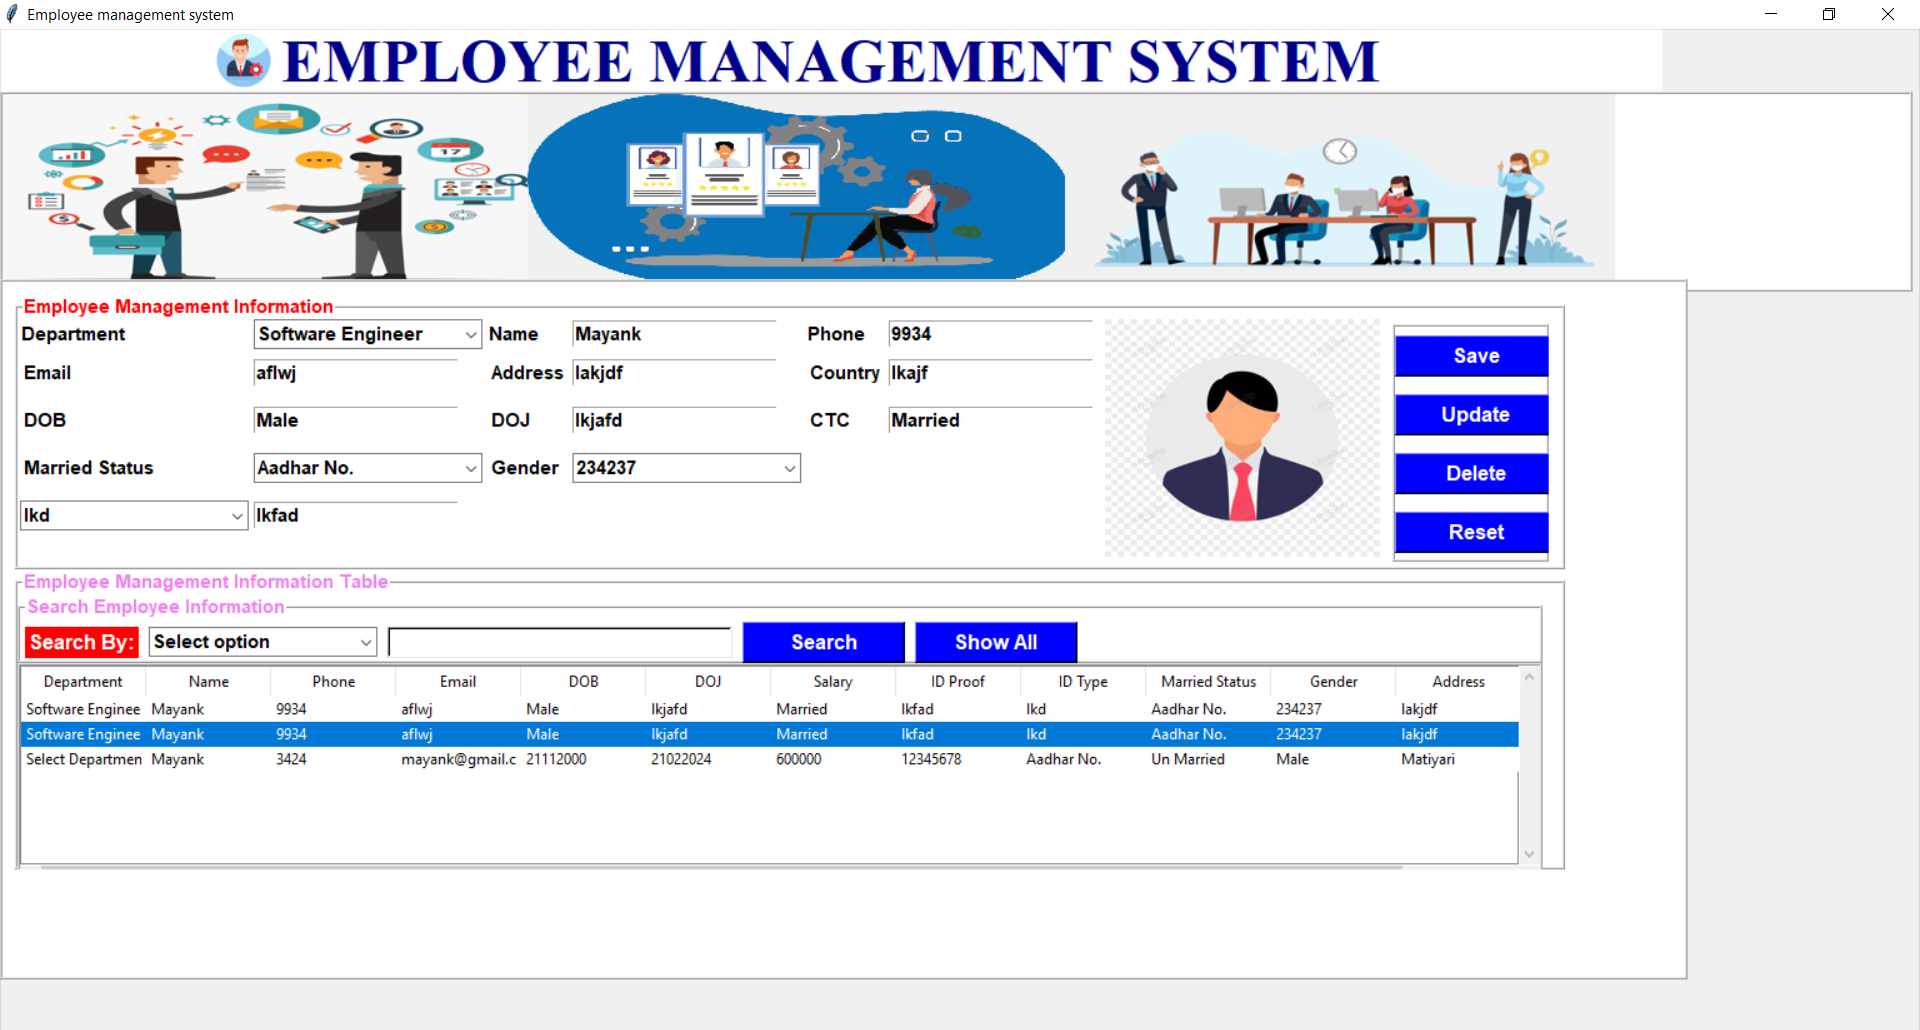
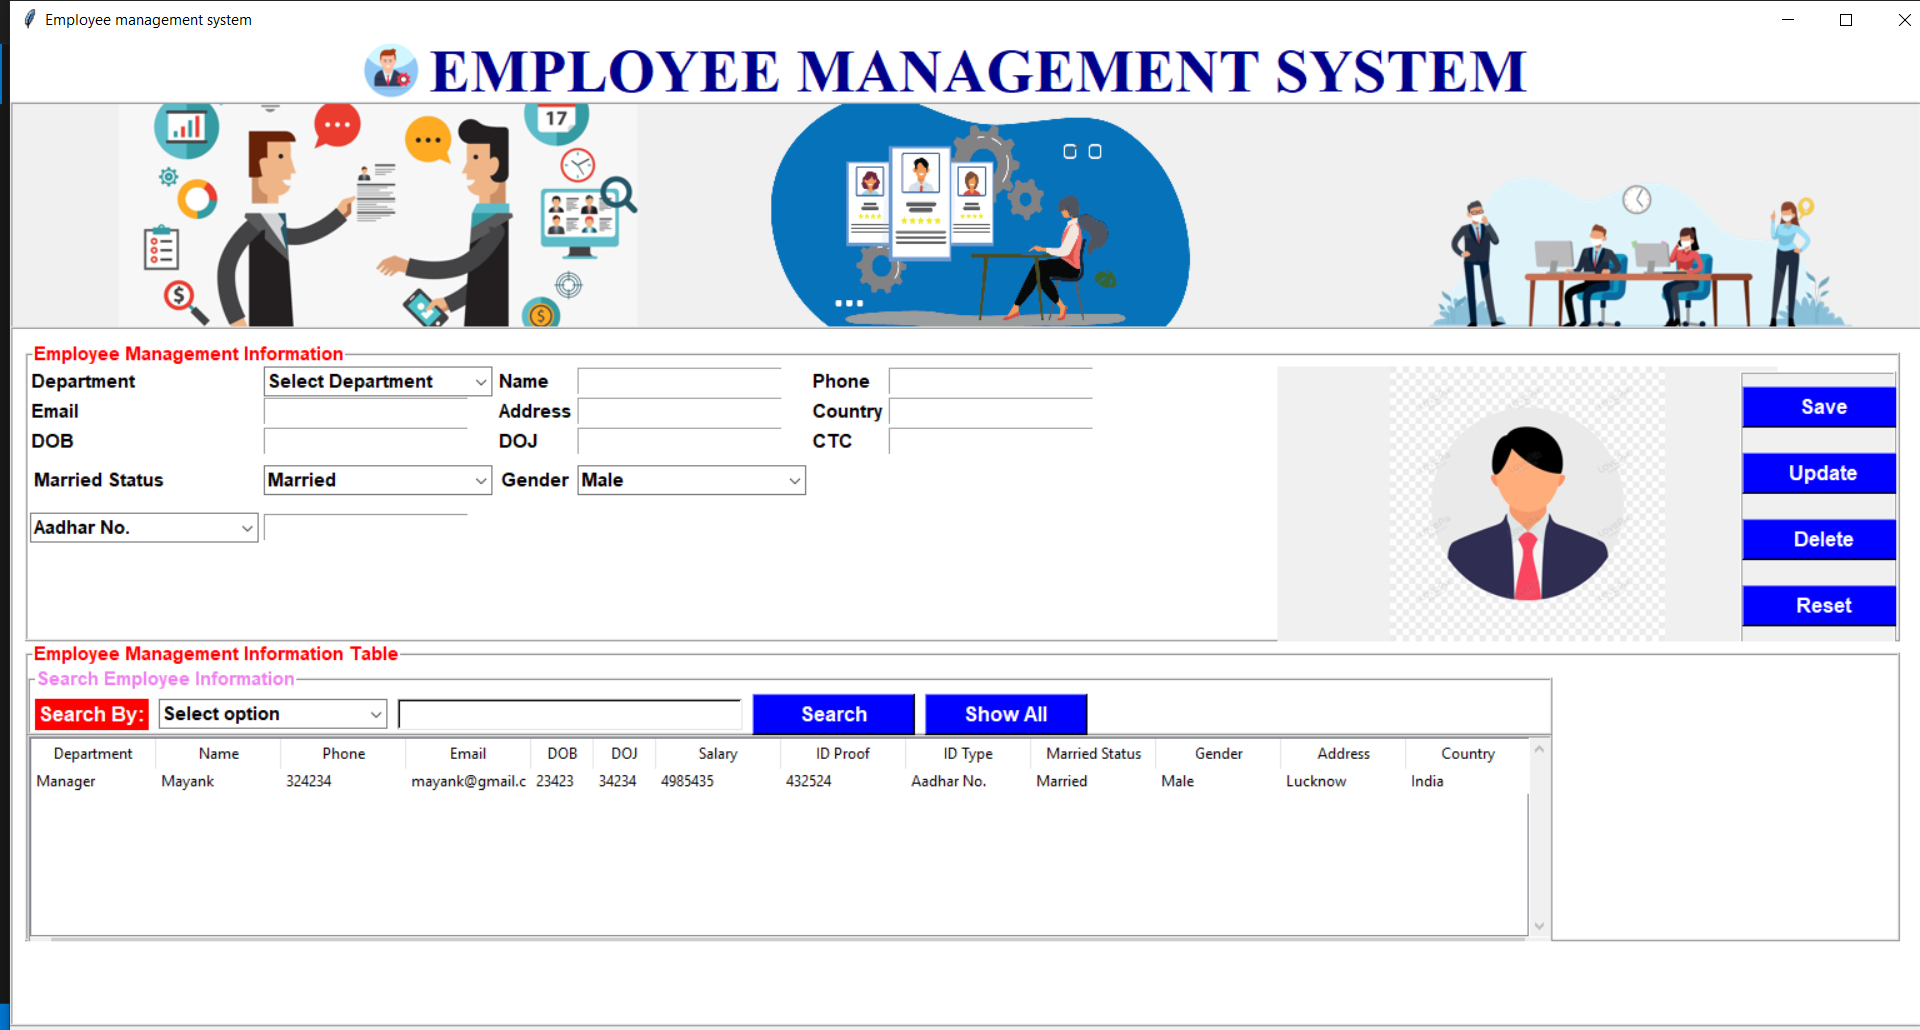
..

diff --git a/CodingBlocks/employee.py b/CodingBlocks/employee.py
@@ -7,8 +7,10 @@ import mysql.connector
 class Employee:
     def __init__(self, root):
         self.root = root
-        self.root.geometry("1530x790+0+0")
+        self.root.geometry("1920x1080+0+0")
         self.root.title("Employee management system")
+
+        # variable for Entries
 
         self.department = StringVar()
         self.name = StringVar()
@@ -28,7 +30,7 @@ class Employee:
 
         lbl_title = Label(self.root, text="EMPLOYEE MANAGEMENT SYSTEM",
                           font=('times new roman', 37, 'bold'), fg='darkblue', bg='white')
-        lbl_title.place(x=0, y=0, width=1330, height=50)
+        lbl_title.place(x=0, y=0, width=1550, height=50)
 
         # logo
         img_logo = Image.open('./CodingBlocks/images/icon.jpg')
@@ -36,45 +38,45 @@ class Employee:
         self.photo_logo = ImageTk.PhotoImage(img_logo)
 
         self.logo = Label(self.root, image=self.photo_logo)
-        self.logo.place(x=170, y=0, width=50, height=50)
+        self.logo.place(x=280, y=0, width=50, height=50)
 
         # image frame
         img_frame = Frame(self.root, bd=2, relief='ridge', bg='white')
-        img_frame.place(x=0, y=50, width=1530, height=160)
+        img_frame.place(x=0, y=50, width=1530, height=200)
 
         # 1st image
         img1 = Image.open('./CodingBlocks/images/img1.png')
-        img1 = img1.resize((440, 160))
+        img1 = img1.resize((430, 423))
         self.photo1 = ImageTk.PhotoImage(img1)
 
         self.img_1 = Label(img_frame, image=self.photo1)
-        self.img_1.place(x=0, y=0, width=440, height=160)
+        self.img_1.place(x=0, y=0, width=600, height=200)
 
         # 2nd image
         img2 = Image.open('./CodingBlocks/images/img3.png')
-        img2 = img2.resize((440, 160))
+        img2 = img2.resize((335, 215))
         self.photo2 = ImageTk.PhotoImage(img2)
 
         self.img_2 = Label(img_frame, image=self.photo2)
-        self.img_2.place(x=420, y=0, width=440, height=160)
+        self.img_2.place(x=500, y=0, width=550, height=200)
 
         # 3rd image
         img3 = Image.open('./CodingBlocks/images/img2.png')
-        img3 = img3.resize((440, 160))
+        img3 = img3.resize((373, 180))
         self.photo3 = ImageTk.PhotoImage(img3)
 
         self.img_3 = Label(img_frame, image=self.photo3)
-        self.img_3.place(x=850, y=0, width=440, height=160)
+        self.img_3.place(x=1000, y=0, width=600, height=230)
 
         # main frame
         Main_frame = Frame(self.root, bd=2, relief='ridge', bg='white')
-        Main_frame.place(x=0, y=200, width=1350, height=560)
+        Main_frame.place(x=0, y=230, width=1550, height=560)
 
         # upper frame
         upper_frame = LabelFrame(Main_frame, bd=2, relief="ridge", bg='white',
                                  text='Employee Management Information',
                                  font=('arial', 11, 'bold'), fg='red')
-        upper_frame.place(x=10, y=10, width=1240, height=220)
+        upper_frame.place(x=10, y=10, width=1500, height=240)
 
         # label for combo field for dep
         lbl_dep = Label(upper_frame, text="Department",
@@ -109,56 +111,56 @@ class Employee:
         # label for entry field for email
         lbl_email = Label(upper_frame, text="Email",
                           font=('arial', 11, 'bold'), bg='white')
-        lbl_email.grid(row=1, column=0, padx=2, pady=7, sticky=W)
+        lbl_email.grid(row=1, column=0, sticky=W)
 
         entry_email = Entry(upper_frame, textvariable=self.email,
                             font=('arial', 11, 'bold'), width=20)
-        entry_email.grid(row=1, column=1, padx=2, pady=7, sticky=W)
+        entry_email.grid(row=1, column=1, padx=2, sticky=W)
 
         # label for entry field for address
         lbl_address = Label(upper_frame, text="Address",
                             font=('arial', 11, 'bold'), bg='white')
-        lbl_address.grid(row=1, column=2, padx=2, pady=7, sticky=W)
+        lbl_address.grid(row=1, column=2, sticky=W)
 
         entry_address = Entry(upper_frame, textvariable=self.address, font=(
             'arial', 11, 'bold'), width=20)
-        entry_address.grid(row=1, column=3, padx=2, pady=7, sticky=W)
+        entry_address.grid(row=1, column=3, padx=2, sticky=W)
 
         # label for entry field for country
         lbl_country = Label(upper_frame, text="Country",
                             font=('arial', 11, 'bold'), bg='white')
-        lbl_country.grid(row=1, column=4, padx=2, pady=7, sticky=W)
+        lbl_country.grid(row=1, column=4, sticky=W)
 
         entry_country = Entry(upper_frame, textvariable=self.country, font=(
             'arial', 11, 'bold'), width=20)
-        entry_country.grid(row=1, column=5, padx=2, pady=7, sticky=W)
+        entry_country.grid(row=1, column=5, padx=2, sticky=W)
 
         # label for entry field for DOB
         lbl_DOB = Label(upper_frame, text="DOB", font=(
             'arial', 11, 'bold'), bg='white')
-        lbl_DOB.grid(row=2, column=0, padx=2, pady=7, sticky=W)
+        lbl_DOB.grid(row=2, column=0, sticky=W)
 
         entry_DOB = Entry(upper_frame, textvariable=self.dob,
                           font=('arial', 11, 'bold'), width=20)
-        entry_DOB.grid(row=2, column=1, padx=2, pady=7, sticky=W)
+        entry_DOB.grid(row=2, column=1, padx=2, sticky=W)
 
         # label for entry field for DOJ
         lbl_DOJ = Label(upper_frame, text="DOJ", font=(
             'arial', 11, 'bold'), bg='white')
-        lbl_DOJ.grid(row=2, column=2, padx=2, pady=7, sticky=W)
+        lbl_DOJ.grid(row=2, column=2, sticky=W)
 
         entry_DOJ = Entry(upper_frame, textvariable=self.doj,
                           font=('arial', 11, 'bold'), width=20)
-        entry_DOJ.grid(row=2, column=3, padx=2, pady=7, sticky=W)
+        entry_DOJ.grid(row=2, column=3, padx=2, sticky=W)
 
         # label for entry field for Salary (CTC)
         lbl_CTC = Label(upper_frame, text="CTC", font=(
             'arial', 11, 'bold'), bg='white')
-        lbl_CTC.grid(row=2, column=4, padx=2, pady=7, sticky=W)
+        lbl_CTC.grid(row=2, column=4, sticky=W)
 
         entry_CTC = Entry(upper_frame, textvariable=self.salary,
                           font=('arial', 11, 'bold'), width=20)
-        entry_CTC.grid(row=2, column=5, padx=2, pady=7, sticky=W)
+        entry_CTC.grid(row=2, column=5, padx=2, sticky=W)
 
         # label for combo field for Married Status
         lbl_Married_status = Label(
@@ -194,42 +196,42 @@ class Employee:
         entry_id_proof.grid(row=4, column=1, padx=2, pady=7, sticky=W)
 
         # Add Employee Image
-        employeeImg = Image.open(
-            './CodingBlocks/images/employeeImage.png')
-        employeeImg = employeeImg.resize((220, 190))
+        employeeImg = Image.open('./CodingBlocks/images/employeeImage.png')
+        employeeImg = employeeImg.resize((220, 220))
         self.employeePhoto = ImageTk.PhotoImage(employeeImg)
 
         self.imgEmp = Label(upper_frame, image=self.employeePhoto)
-        self.imgEmp.place(x=870, y=0, width=220, height=190)
+        self.imgEmp.place(x=1000, y=0, width=400, height=220)
 
         # Add four button Update, Save, Delete, Reset
 
-        button_frame = Frame(upper_frame, bd=2, relief='ridge', bg='white')
-        button_frame.place(x=1100, y=4, width=125, height=190)
+        button_frame = Frame(upper_frame, bd=2, relief='ridge')
+        button_frame.place(x=1370, y=4, width=125, height=220)
 
-        btn_save = Button(button_frame, text="Save", command=self.AddData, font=(
+        btn_save = Button(button_frame, command=self.AddData, text="Save", font=(
             'arial', 12, 'bold'), fg='white', bg='blue', width=12)
-        btn_save.grid(row=0, column=0, pady=7, sticky=W)
+        btn_save.grid(row=0, column=0, pady=10, sticky=W)
 
         btn_update = Button(button_frame, command=self.updateData, text="Update", font=(
             'arial', 12, 'bold'), fg='white', bg='blue', width=12)
-        btn_update.grid(row=1, column=0, pady=7, sticky=W)
+        btn_update.grid(row=1, column=0, pady=10, sticky=W)
 
-        btn_delete = Button(button_frame, text="Delete", command=self.deleteData, font=(
+        btn_delete = Button(button_frame, command=self.deleteData, text="Delete", font=(
             'arial', 12, 'bold'), fg='white', bg='blue', width=12)
-        btn_delete.grid(row=2, column=0, pady=7, sticky=W)
+        btn_delete.grid(row=2, column=0, pady=10, sticky=W)
 
-        btn_reset = Button(button_frame, text="Reset", command=self.resetEmployeeInfo, font=(
+        btn_reset = Button(button_frame, command=self.resetEmployeeInfo, text="Reset", font=(
             'arial', 12, 'bold'), fg='white', bg='blue', width=12)
-        btn_reset.grid(row=3, column=0, pady=7, sticky=W)
+        btn_reset.grid(row=3, column=0, pady=10, sticky=W)
 
         # down frame
         down_frame = LabelFrame(Main_frame, bd=2, relief="ridge", bg='white',
                                 text='Employee Management Information Table',
-                                font=('arial', 11, 'bold'), fg='violet')
-        down_frame.place(x=10, y=230, width=1240, height=240)
+                                font=('arial', 11, 'bold'), fg='red')
+        down_frame.place(x=10, y=250, width=1500, height=240)
 
         # searh Frame
+
         search_frame = LabelFrame(down_frame, text="Search Employee Information",
                                   relief='ridge', bd=2, font=('arial', 11, 'bold'), fg='violet', bg='white')
         search_frame.place(x=0, y=0, width=1220, height=55)
@@ -257,14 +259,15 @@ class Employee:
         btn_showAll.grid(row=0, column=4, padx=4, pady=2, sticky=W)
 
         # searh Frame
+
         table_frame = Frame(down_frame, relief='ridge', bd=2, bg='white')
         table_frame.place(x=0, y=55, width=1220, height=180)
 
         scroll_x = ttk.Scrollbar(table_frame, orient=HORIZONTAL)
         scroll_y = ttk.Scrollbar(table_frame, orient=VERTICAL)
 
-        self.employee_table = ttk.Treeview(table_frame, column=("dep", "name", "phone", 'email', "dob", 'doj', 'salary', 'idProof',
-                                           'idType', 'married', 'gender', 'address', 'country',), xscrollcommand=scroll_x.set, yscrollcommand=scroll_y.set)
+        self.employee_table = ttk.Treeview(table_frame, column=("dep", "name", "phone", 'email', "dob", "doj", "salary", "idProof",
+                                           "idType", "married", "gender", "address", "country",), xscrollcommand=scroll_x.set, yscrollcommand=scroll_y.set)
         scroll_x.pack(side=BOTTOM, fill=X)
         scroll_y.pack(side=RIGHT, fill=Y)
 
@@ -294,10 +297,9 @@ class Employee:
         self.employee_table.column('email', width=100)
         self.employee_table.column('gender', width=100)
         self.employee_table.column('address', width=100)
-
         self.employee_table.column('married', width=100)
-        self.employee_table.column('dob', width=100)
-        self.employee_table.column('doj', width=100)
+        self.employee_table.column('dob', width=50)
+        self.employee_table.column('doj', width=50)
         self.employee_table.column('idType', width=100)
         self.employee_table.column('idProof', width=100)
         self.employee_table.column('salary', width=100)
@@ -389,7 +391,7 @@ class Employee:
 
     def deleteData(self):
         conn = mysql.connector.connect(
-            host="localhost", user="root", password="root", database="mayank")
+            host="localhost", username="root", password="root", database="mayank")
         cursor = conn.cursor()
 
         try:
@@ -404,7 +406,7 @@ class Employee:
 
     def searchEmployeeInfo(self):
         conn = mysql.connector.connect(
-            host="localhost", user="root", password="root", database="mayank")
+            host="localhost", username="root", password="root", database="mayank")
         cursor = conn.cursor()
         try:
             cursor.execute("select * from MCA where " +
@@ -423,10 +425,10 @@ class Employee:
 
     def updateData(self):
         conn = mysql.connector.connect(
-            host="localhost", user="root", password="root", database="mayank")
+            host="localhost", username="root", password="root", database="mayank")
         cursor = conn.cursor()
         try:
-            cursor.execute("update MCA set Department=%s,Name=%s,Phone=%s,Email=%s,DOB=%s,DOJ=%s,Salary=%s,IdProof=%s,IdType=%s,Married=%s,Gender=%s,Address=%s,Country=%s ", (
+            cursor.execute("update employee set Department=%s,Name=%s,Phone=%s,Email=%s,DOB=%s,DOJ=%s,Salary=%s,IdType=%s,Married=%s,Gender=%s,Address=%s,Country=%s where IdProof=%s", (
                 self.department.get(),
                 self.name.get(),
                 self.phone.get(),
@@ -434,12 +436,12 @@ class Employee:
                 self.dob.get(),
                 self.doj.get(),
                 self.salary.get(),
-                self.idProof.get(),
                 self.idType.get(),
                 self.married.get(),
                 self.gender.get(),
                 self.address.get(),
                 self.country.get(),
+                self.idProof.get(),
             ))
             conn.commit()
             self.resetEmployeeInfo()
